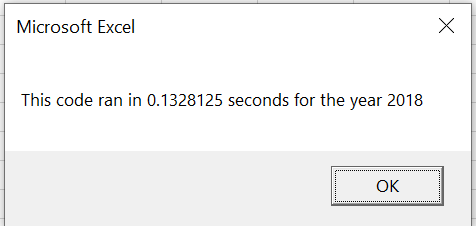
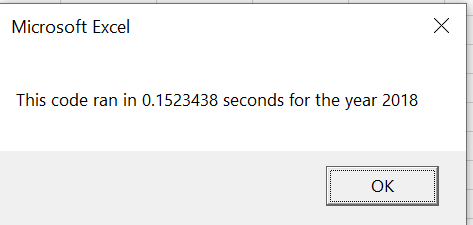
Update readme

diff --git a/README.md b/README.md
@@ -8,6 +8,11 @@ Overview of Project
 
 Results
 * In 2017, the only stock to not return a positive result is TERP with a -7.2% drop. Meanwhile, the highest returning return is DQ with a 199.4% return. In 2018, the only stocks with positive returns were ENPH and RUN with 81.9% and 84% returns respectively; meanwhile, the biggest drop was DQ with a -62.6%.
-* With a refactored code, compiling the data took between 0.125 and 0.1328125 seconds; meanwhile, using unrefactored code took 0.59375 and 0.6909375 seconds.       
+* With a refactored code, compiling the data took 0.1445313 and 0.1523438 seconds for 2017 and 2018 respectively; meanwhile, using the unrefactored code took 0.59375 and 0.6909375 seconds for 2017 and 2018 respectively.    
+
+![GitHub Logo](/VBA_Challenge_2017.png)
+![GitHub Logo](/VBA_Challenge_2018.png)
+
 
 Summary
+* 
